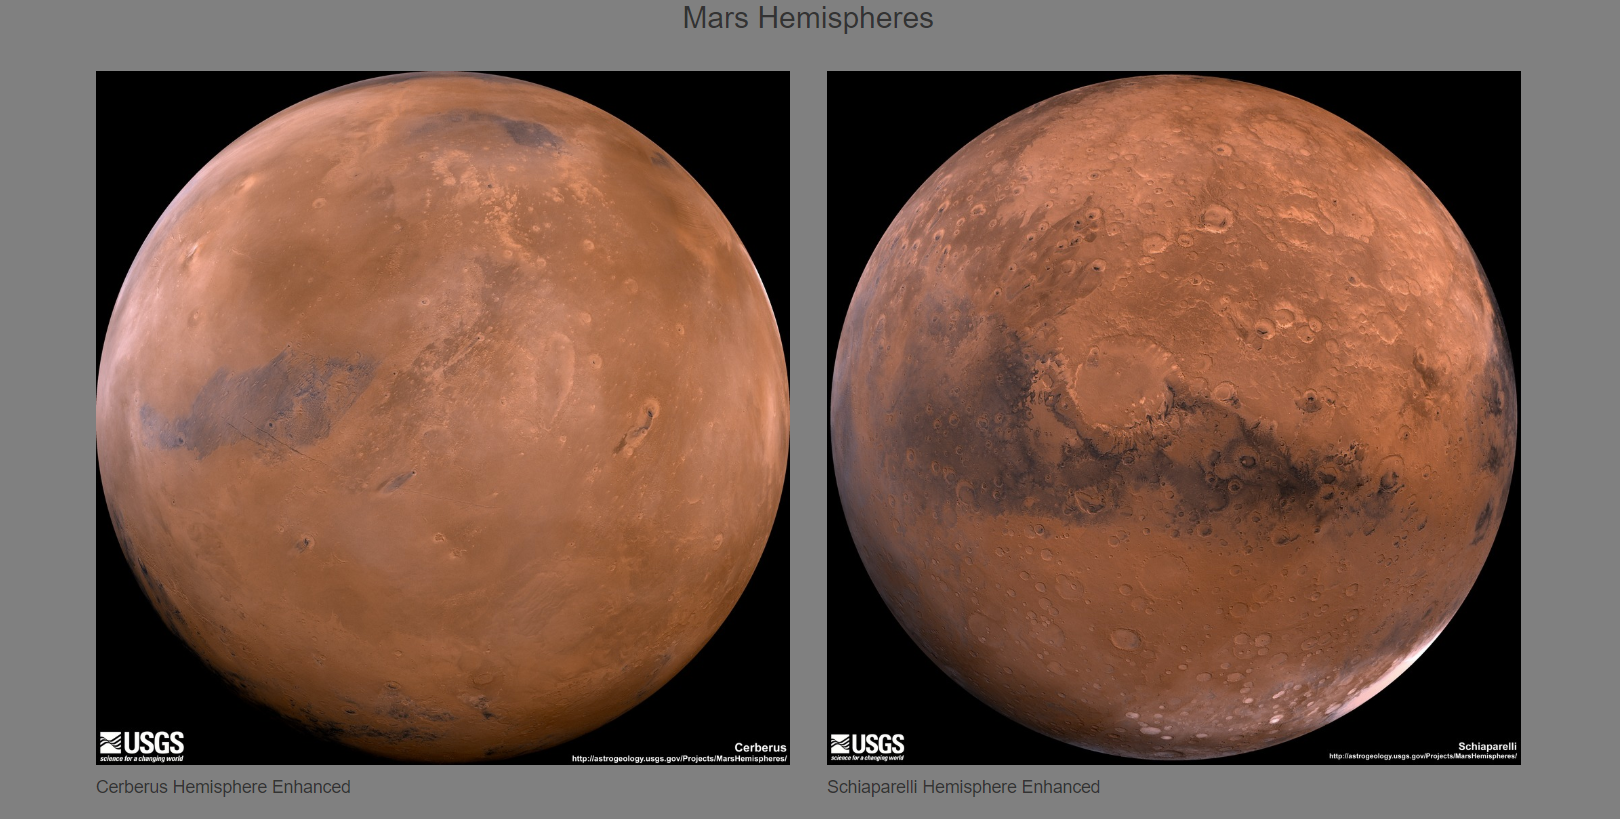
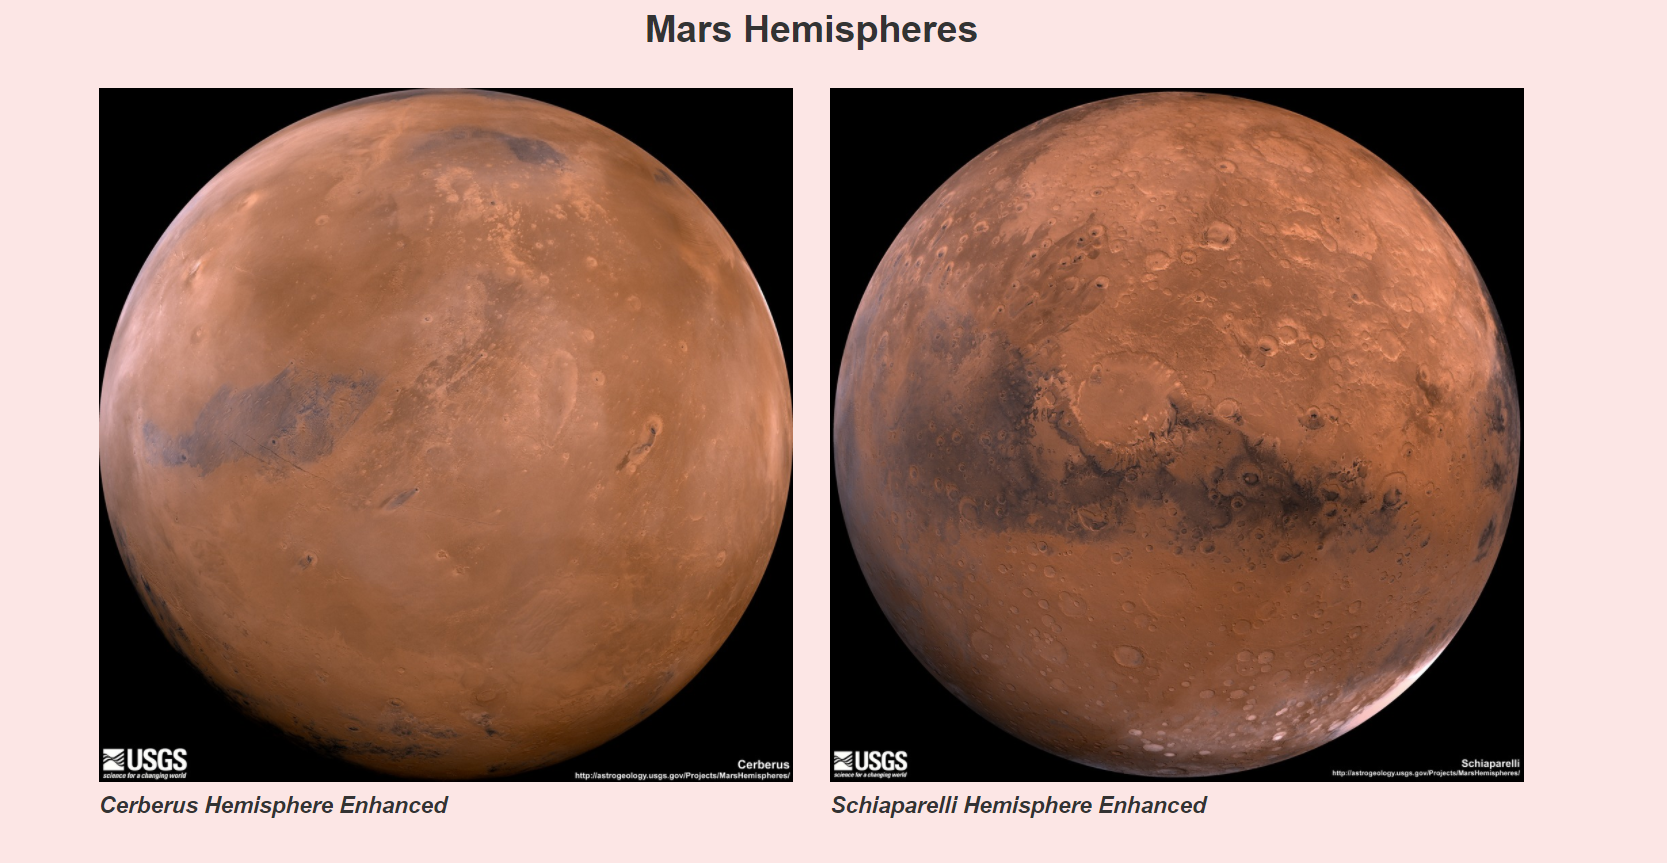
final updates

diff --git a/Missions_to_Mars/Templates/index.html b/Missions_to_Mars/Templates/index.html
@@ -7,18 +7,18 @@
   <meta http-equiv="X-UA-Compatible" content="ie=edge">
   <title>Mission to Mars</title>
   <link rel="stylesheet" href="https://maxcdn.bootstrapcdn.com/bootstrap/3.3.7/css/bootstrap.min.css">
-  <link rel="stylesheet" href="assets/css/style.css" />
+  <link rel="stylesheet" type="text/css" href="{{ url_for('static',filename='styles/style.css') }}">
 </head>
 
 <body>
   
-  <body class="text-black" style="background-color: rgb(179, 126, 107);">
+  <body class="text-black" style="background-color: rgb(255, 230, 230);">
     <div class="container">
 
     <!-- Jumbotron -->
     <div class="jumbotron text-center" style="background-color: black;">
         <h1 class="display-1 text-white" style="color: white"><strong> Mission to Mars</strong></h1>
-        <a class="btn btn-lg text-black" style="background-color: rgb(185, 62, 13);" href="/scrape" role="button">Scrape New
+        <a class="btn btn-lg text-black" style="background-color: whitesmoke;" href="/scrape" role="button">Scrape New
             Data</a>
     </div>
 

diff --git a/Missions_to_Mars/static/styles/style.css b/Missions_to_Mars/static/styles/style.css
@@ -1,0 +1,10 @@
+h2 {font-weight: bold;};
+.mars-heading {margin-top: 4rem;}
+h4 {font-weight: bold;
+        font-style: italic};
+h1 {color: white;}
+
+.table-size {max-width:100%; 
+        max-height: auto;); 
+
+.btn btn-lg text-black {color: black}

diff --git a/README.md b/README.md
@@ -1,1 +1,66 @@
-# web-scraping-challenge
+# Web-scraping-challenge
+# Mission to Mars
+
+
+Objective: build a web application that scrapes various websites for data related to the Mission to Mars and displays the information in a single HTML page. 
+
+* This challenge requires the initial scraping using Jupyter Notebook, BeautifulSoup, Pandas, and Requests/Splinter. 
+
+* Set up of Jupyter Notebook file called `mission_to_mars.ipynb` to complete scraping and analysis tasks. 
+
+## Step 1 - Scraping
+
+### NASA Mars News
+
+* Scrape the [NASA Mars News Site](https://mars.nasa.gov/news/) and collect the latest News Title and Paragraph Text. 
+
+### JPL Mars Space Images - Featured Image
+
+* Visit the url for JPL Featured Space Image (https://www.jpl.nasa.gov/spaceimages/?search=&category=Mars).
+
+* Use splinter to navigate the site and find the image url for the current Featured Mars Image and assign the url string to a variable called `featured_image_url`.
+
+* Make sure to find the image url to the full size `.jpg` image.
+
+* Make sure to save a complete url string for this image.
+
+### Mars Facts
+
+* Visit the Mars Facts webpage (https://space-facts.com/mars/) and use Pandas to scrape the table containing facts about the planet including Diameter, Mass, etc.
+
+* Use Pandas to convert the data to a HTML table string.
+
+### Mars Hemispheres
+
+* Visit the USGS Astrogeology site (https://astrogeology.usgs.gov/search/results?q=hemisphere+enhanced&k1=target&v1=Mars) to obtain high resolution images for each of Mar's hemispheres.
+
+* Click each of the links to the hemispheres in order to find the image url to the full resolution image.
+
+* Use a Python dictionary to store the data using the keys `img_url` and `title`.
+
+* Append the dictionary with the image url string and the hemisphere title to a list. 
+
+## Step 2 - MongoDB and Flask Application
+
+Use MongoDB with Flask templating to create a new HTML page that displays all of the information that was scraped from the URLs above.
+
+* Convert Jupyter notebook into a Python script called `scrape_mars.py` with a function called `scrape` to execute scraping code from above and return one Python dictionary containing all of the scraped data.
+
+* Create a route called `/scrape` that will import your `scrape_mars.py` script and call your `scrape` function.
+
+* Store the return value in Mongo as a Python dictionary.
+
+* Create a root route `/` that will query your Mongo database and pass the mars data into an HTML template to display the data.
+
+* Create a template HTML file called `index.html` to take the mars data dictionary and display all of the data in the appropriate HTML elements. 
+
+
+## Other considerations
+
+* Use Splinter to navigate the sites when needed and BeautifulSoup to help find and parse out the necessary data.
+
+* Use Pymongo for CRUD applications for your database. 
+
+* Use Bootstrap to structure your HTML template.
+
+
